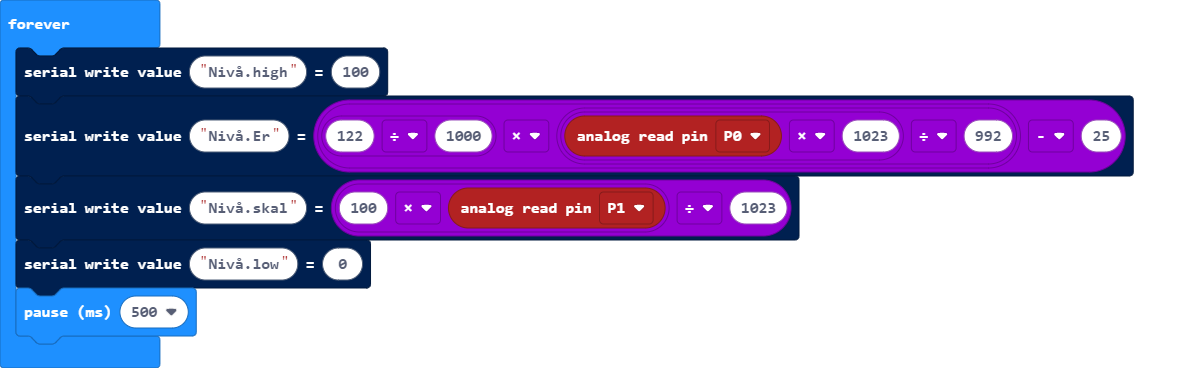
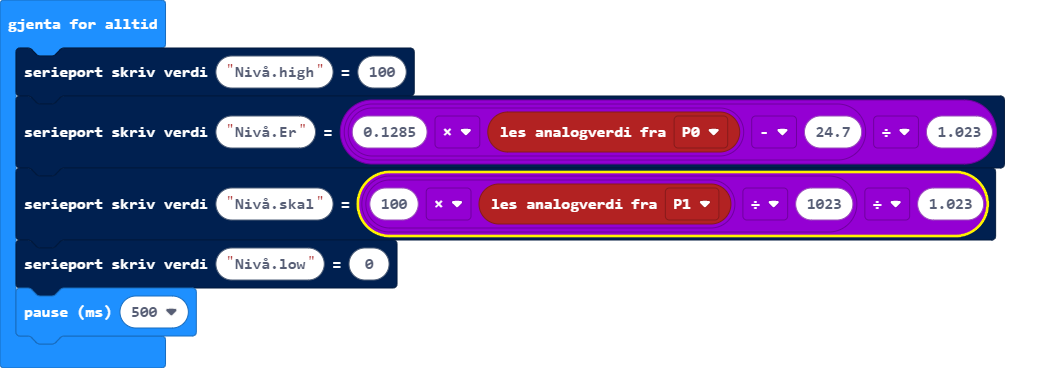
Oppdater main.blocks, main.ts

diff --git a/main.ts b/main.ts
@@ -1,7 +1,7 @@
 basic.forever(function () {
     serial.writeValue("Nivå.high", 100)
-    serial.writeValue("Nivå.Er", 122 / 1000 * (pins.analogReadPin(AnalogPin.P0) * 1023 / 992) - 25)
-    serial.writeValue("Nivå.skal", 100 * pins.analogReadPin(AnalogPin.P1) / 1023)
+    serial.writeValue("Nivå.Er", (0.1285 * pins.analogReadPin(AnalogPin.P0) - 24.7) / 1.023)
+    serial.writeValue("Nivå.skal", 100 * pins.analogReadPin(AnalogPin.P1) / 1023 / 1.023)
     serial.writeValue("Nivå.low", 0)
     basic.pause(500)
 })
